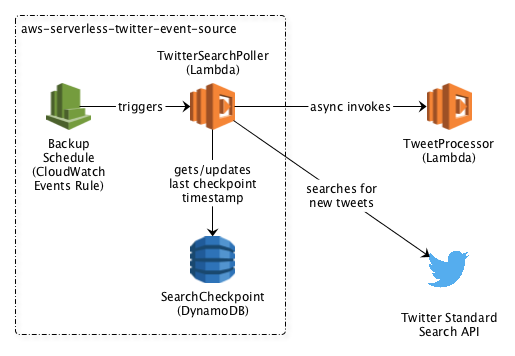
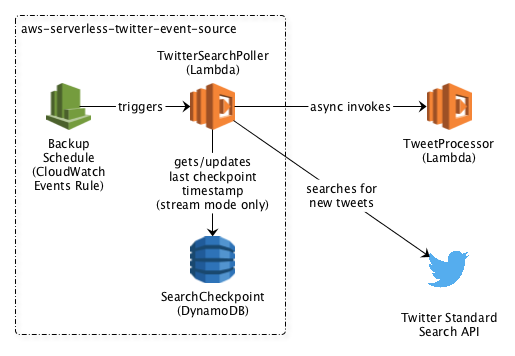
Update docs with information on stream mode

Changed region(s): [[0.3107, 0.4326, 0.5282, 0.5871]]

diff --git a/README.md b/README.md
@@ -7,9 +7,10 @@ This serverless app turns a twitter search query into an AWS Lambda event source
 ![App Architecture](https://github.com/awslabs/aws-serverless-twitter-event-source/raw/master/images/app-architecture.png)
 
 1. The TwitterSearchPoller lambda function is periodically triggered by a CloudWatch Events Rule.
-1. A DynamoDB table is used to keep track of a checkpoint, which is the latest tweet timestamp found by past searches.
+1. In stream mode, a DynamoDB table is used to keep track of a checkpoint, which is the latest tweet timestamp found by past searches.
 1. The poller function calls the Twitter Standard Search API and searches for tweets using the search text provided as an app parameter.
 1. The TweetProcessor lambda function (provided by the app user) is invoked with any new tweets that were found after the checkpoint timestamp.
+1. If stream mode is not enabled, the TweetProcessor lambda function will be invoked with all search results found, regardless of whether they had been seen before.
     1.  Note, the TweetProcessor function is invoked asynchronously (Event invocation type). The app does not confirm that the lambda was able to successfully process the tweets. If you're concerned about tweets being lost due to failures in your lambda function, you should configure a DLQ on your lambda function so failed messages will end up on the DLQ automatically. See the [AWS Lambda DLQ documentation](https://docs.aws.amazon.com/lambda/latest/dg/dlq.html) for more information.
 
 ## Installation Steps
@@ -48,6 +49,7 @@ In addition to the Twitter API key parameters, the app also requires the followi
 1. TweetProcessorFunctionName (required) - This is the name (not ARN) of the lambda function that will process tweets generated by the app.
 1. PollingFrequencyInMinutes (optional) - The frequency at which the lambda will poll the Twitter Search API (in minutes). Default: 1.
 1. BatchSize (optional) - The max number of tweets that will be sent to the TweetProcessor lambda function in a single invocation. Default: 15.
+1. StreamModeEnabled (optional) - If true, the app will save the latest timestamp of the previous tweets found and only invoke the tweet processor function for newer tweets. If false, the app will be stateless and invoke the tweet processor function with all tweets found in each polling cycle. Default: true.
 
 ## License Summary
 
